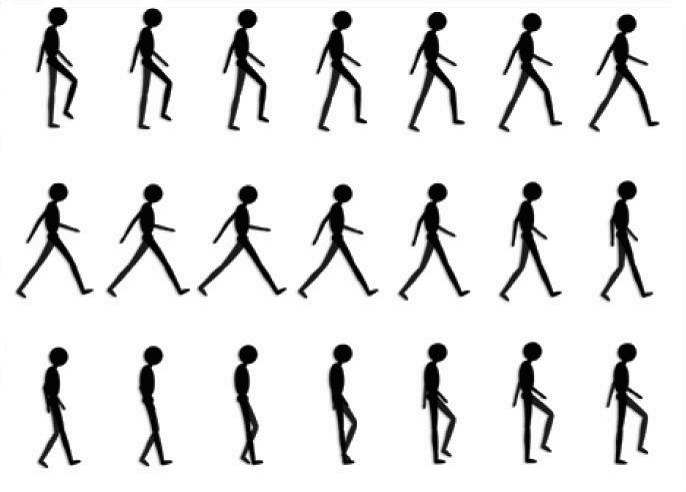
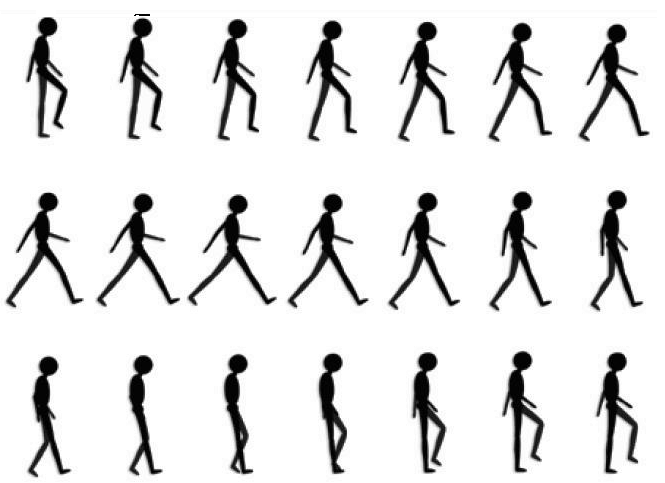
AnimationSprite tick function

diff --git a/fire_storm_2019/AnimationSprite.cpp b/fire_storm_2019/AnimationSprite.cpp
@@ -1,16 +1,18 @@
 #include "AnimationSprite.h"
 #include <SDL_image.h>
 #include "System.h"
+#include <iostream>
 
 namespace fs19 {
 
-	AnimationSprite::AnimationSprite(int x, int y, int w, int h, std::string path, int frames) : Sprite(x, y, w, h) {
-		frameCount = frames;
+	AnimationSprite::AnimationSprite(int x, int y, int w, int h, std::string path, int xFrames, int yFrames) : Sprite(x, y, w, h) {
+		xFrameCount = xFrames;
+		yFrameCount = yFrames;
 		animationSheet = IMG_LoadTexture(sys.get_ren(), path.c_str());
 		frameClip = {0,0,w,h};
 	}
-	AnimationSprite* AnimationSprite::getInstance(int x, int y, int w, int h, std::string path,int frames) {
-		return new AnimationSprite( x, y, w, h, path, frames);
+	AnimationSprite* AnimationSprite::getInstance(int x, int y, int w, int h, std::string path,int xFrames, int yFrames) {
+		return new AnimationSprite( x, y, w, h, path, xFrames, yFrames);
 	}
 	AnimationSprite::~AnimationSprite() {
 		SDL_DestroyTexture(animationSheet);
@@ -23,20 +25,20 @@ namespace fs19 {
 		frame++;
 		static int clips = 0;
 		if (frame % 5 == 0) {
-			frameClip.x += getRect().x;
-			frameClip.y += getRect().y;
 			clips++;
-			/*frameClip.w += getRect().w;
-			frameClip.h += getRect().h;*/
-		 }
+			frameClip.x += getRect().w;
+			if (clips%xFrameCount == 0) {
+				frameClip.y += getRect().h;	
+				frameClip.x = 0;
+			}
+			
+		}
 		 
-		if (clips == frameCount) {
-			frameClip.x = 0;
+		if (clips == xFrameCount*yFrameCount) {
 			frameClip.y = 0;
 			clips = 0;
 		 }
-		 
-		 
+		  
 		if (frame == 60) 
 			frame = 0;
 		 

diff --git a/fire_storm_2019/PlayerSprite.cpp b/fire_storm_2019/PlayerSprite.cpp
@@ -6,15 +6,17 @@
 
 namespace fs19 {
 
-	PlayerSprite* PlayerSprite::getInstance(int x, int y, int w, int h){
-		return new PlayerSprite(x, y, w, h);
+	PlayerSprite* PlayerSprite::getInstance(int x, int y, int w, int h, std::string path){
+		return new PlayerSprite(x, y, w, h, path);
+		
 	
 	}
 
-	PlayerSprite::PlayerSprite(int x, int y, int w, int h) :Sprite(x,y,w,h){
+	PlayerSprite::PlayerSprite(int x, int y, int w, int h, std::string path) :Sprite(x,y,w,h){
 
-		pixelCatapult = IMG_LoadTexture(sys.get_ren(), "pixelCatapult.png");
-		pixelCatapultLeft = IMG_LoadTexture(sys.get_ren(), "pixelCatapultLeft.png");
+		pixelCatapult = IMG_LoadTexture(sys.get_ren(), path.c_str);
+		pixelCatapultLeft = IMG_LoadTexture(sys.get_ren(), path.c_str);
+		center = { x + (w / 2),(y + h / 2) };
 	}
 
 
@@ -29,10 +31,10 @@ namespace fs19 {
 
 		if (isTurnedLeft) {
 
-			SDL_RenderCopy(sys.get_ren(), pixelCatapultLeft, NULL, &getRect());
+			SDL_RenderCopyEx(sys.get_ren(), pixelCatapultLeft, NULL, &getRect(), 180, &center, SDL_FLIP_VERTICAL);
 		}
 		else {
-			SDL_RenderCopy(sys.get_ren(), pixelCatapult, NULL, &getRect());
+			SDL_RenderCopyEx(sys.get_ren(), pixelCatapult, NULL, &getRect(),0,&center, SDL_FLIP_VERTICAL);
 		}
 
 		

diff --git a/fire_storm_2019/AnimationSprite.h b/fire_storm_2019/AnimationSprite.h
@@ -8,7 +8,7 @@ namespace fs19 {
 	class AnimationSprite : public Sprite
 	{
 	public:
-		static AnimationSprite* getInstance(int x, int y, int w, int h, std::string path, int frames);
+		static AnimationSprite* getInstance(int x, int y, int w, int h, std::string path, int xFrames, int yFrames);
 		~AnimationSprite();
 		void tick(); //An incremential tick that updates the game with each tick at end of the loop
 		void draw() const; //draws the components
@@ -18,12 +18,12 @@ namespace fs19 {
 		void keyUp(const SDL_Event&) {};
 		void textInput(const SDL_Event&) {};
 	protected:
-		AnimationSprite(int x, int y, int w, int h, std::string path, int frames);
+		AnimationSprite(int x, int y, int w, int h, std::string path, int xFrames, int yFrames);
 	private:
 		//SDL_Texture* texture;
 		SDL_Texture* animationSheet;
 		SDL_Rect frameClip;
-		int frameCount;
+		int xFrameCount, yFrameCount;
 	};
 }
 #endif

diff --git a/fire_storm_2019/Scene0.cpp b/fire_storm_2019/Scene0.cpp
@@ -8,6 +8,7 @@
 #include "SceneMenu.h"
 #include "GameEngine.h"
 #include "TextBox.h"
+#include "AnimationSprite.h"
 namespace fs19 {
 
 
@@ -50,10 +51,20 @@ namespace fs19 {
 
 
 	};
-	//class TextEditor : public TextBox {
-	//public:
-	//	TextEditor() :TextBox(200,100,100,100){}
-	//};
+
+	class walkAnimation : public AnimationSprite {
+	public:
+		walkAnimation(): AnimationSprite(400,400,95,161,"Walkanimation.png",7,3){}
+
+	};
+	
+	
+	
+	class runAnimation : public AnimationSprite {
+	public:
+		runAnimation() : AnimationSprite(300, 200, 125, 125, "Runanimation.png", 4, 4) {}
+	};
+
 
 
 
@@ -68,7 +79,8 @@ namespace fs19 {
 		Sprite* background = new Background("background.png");
 		addSprites(background);
 		addSprites(new NewGameButton());
-		//addSprites(new TextEditor());
+		addSprites(new walkAnimation());
+		addSprites(new runAnimation());
 
 	}
 }

diff --git a/fire_storm_2019/PlayerSprite.h b/fire_storm_2019/PlayerSprite.h
@@ -10,7 +10,7 @@ class PlayerSprite : public Sprite
 public:
 
 
-	static PlayerSprite* getInstance(int x, int y, int w, int h);
+	static PlayerSprite* getInstance(int x, int y, int w, int h, std::string path);
 	~PlayerSprite();
 	void draw() const;
 	void tick() {};
@@ -19,11 +19,11 @@ public:
 	virtual void keyDown(const SDL_Event&) {}
 
 protected:
-	PlayerSprite(int x, int y, int v, int h);
+	PlayerSprite(int x, int y, int v, int h, std::string path);
 
 private:
 	bool isTurnedLeft = false;
-
+	SDL_Point center;
 	SDL_Texture* pixelCatapult, * pixelCatapultLeft;
 };
 }

diff --git a/fire_storm_2019/SceneBattlefield.cpp b/fire_storm_2019/SceneBattlefield.cpp
@@ -35,7 +35,7 @@ namespace fs19 {
 
 	class Player1 : public PlayerSprite {
 	public:
-		Player1() : PlayerSprite(0, 300, 100, 50){}
+		Player1() : PlayerSprite(0, 300, 100, 50, "pixelCatapult.png"){}
 
 
 
@@ -64,7 +64,7 @@ namespace fs19 {
 
 	class Player2 : public PlayerSprite {
 	public:
-		Player2() : PlayerSprite(700, 300, 100, 50) {}
+		Player2() : PlayerSprite(700, 300, 100, 50, "pixelCatapult.png") {}
 		
 
 
